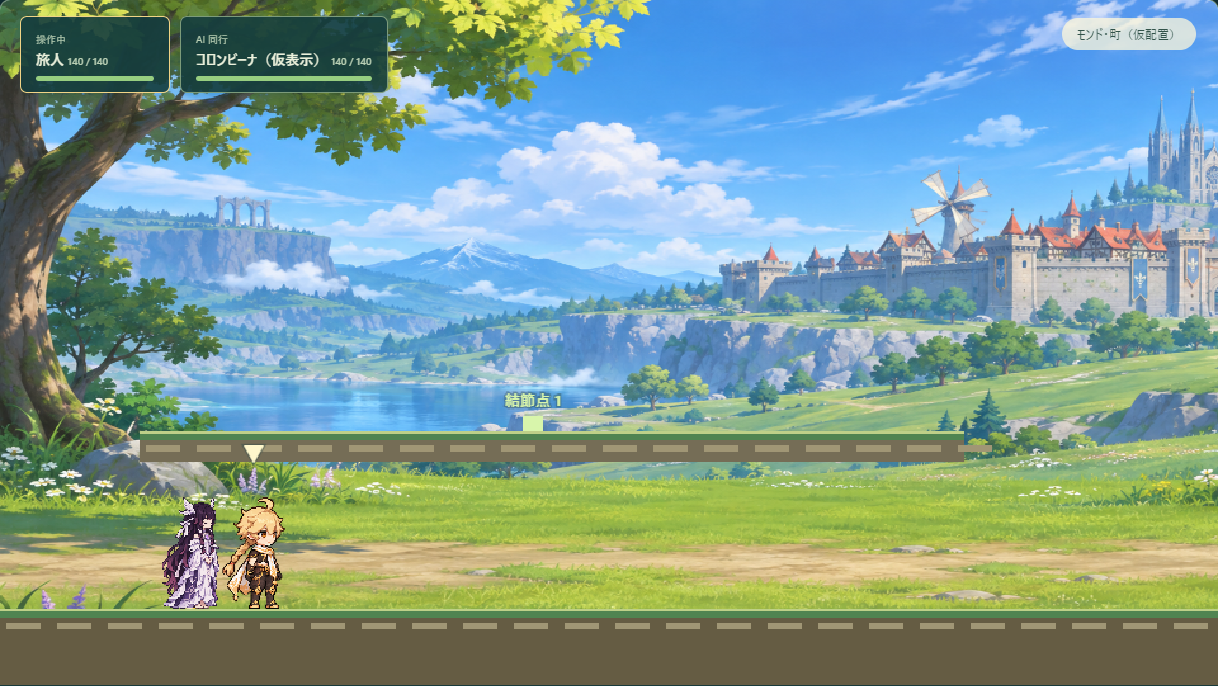
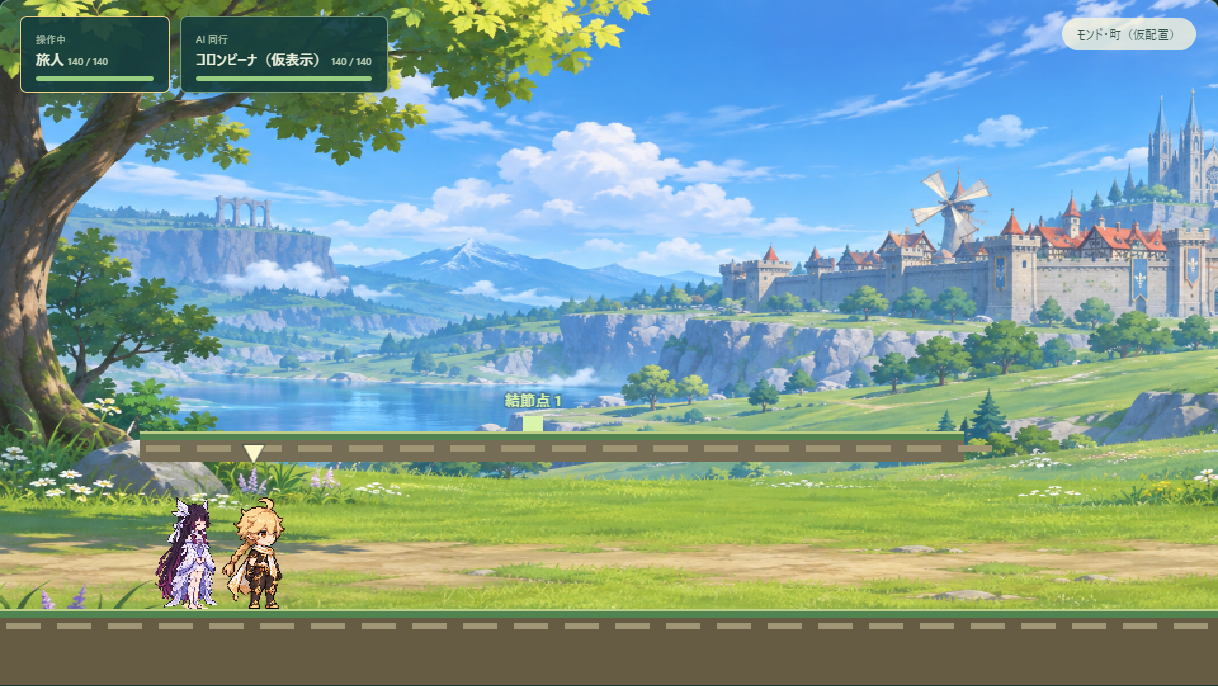
Revise Columbina layered costume from viewed illustration and models

Changed region(s): [[0.1248, 0.7347, 0.1872, 0.8878]]

diff --git a/app.js b/app.js
@@ -12,7 +12,7 @@ const inventoryUI=initInventoryUI(a=>actions.push(a));
 const SAVE_KEY='maple-lua-lab.checkpoint.v1';
 $('saveProgress').onclick=()=>{checkpointRequested=true;$('saveStatus').textContent='保存中…'};
 $('loadProgress').onclick=()=>{try{const raw=localStorage.getItem(SAVE_KEY);if(!raw)throw Error('保存データがありません');restoreRequested=JSON.parse(raw);if(!restoreRequested||typeof restoreRequested!=='object')throw Error('保存データを読み取れません');$('saveStatus').textContent='読み込み中…'}catch(e){restoreRequested=null;$('saveStatus').textContent=e.message}};
-const bossImages={};for(const name of [...Array.from({length:4},(_,i)=>'array-part-'+(i+1)+'-source-v1.png'),'wanderer-idle-source-v2.png','emilie-idle-source-v2.png','kachina-idle-source-v2.png','columbina-idle-source-v1.png','mitya-idle-source-v1.png','ayaka-idle-source-v3.png','beidou-idle-source-v3.png','thunder-source-v1.png','array-source-v1.png','maguu-slash-source-v1.png','maguu-stance-source-v1.png','maguu-mask-source-v1.png','maguu-source-v1.png','primo-source-v1.png','oceanid-crane-source-v1.png','oceanid-mallard-source-v1.png','oceanid-ferret-source-v1.png','oceanid-crab-source-v1.png','oceanid-raptor-source-v1.png','oceanid-frog-source-v1.png','oceanid-finch-source-v1.png','oceanid-source-v1.png','oceanid-boar-source-v1.png','geo-shell-source-v1.png','geo-core-source-v1.png','geo-pillar-source-v1.png','electro-shell-source-v1.png','electro-core-source-v1.png','anemo-shell-source-v1.png','anemo-core-source-v1.png','farka-source-v1.png','pyro-regisvine-source-v1.png',...Array.from({length:4},(_,i)=>'farka-actions/0'+(i+1)+'.png')]){const image=new Image();image.src='assets/'+name;await image.decode();bossImages[name]=image;}
+const bossImages={};for(const name of [...Array.from({length:4},(_,i)=>'array-part-'+(i+1)+'-source-v1.png'),'wanderer-idle-source-v2.png','emilie-idle-source-v2.png','kachina-idle-source-v2.png','columbina-idle-source-v2.png','mitya-idle-source-v1.png','ayaka-idle-source-v3.png','beidou-idle-source-v3.png','thunder-source-v1.png','array-source-v1.png','maguu-slash-source-v1.png','maguu-stance-source-v1.png','maguu-mask-source-v1.png','maguu-source-v1.png','primo-source-v1.png','oceanid-crane-source-v1.png','oceanid-mallard-source-v1.png','oceanid-ferret-source-v1.png','oceanid-crab-source-v1.png','oceanid-raptor-source-v1.png','oceanid-frog-source-v1.png','oceanid-finch-source-v1.png','oceanid-source-v1.png','oceanid-boar-source-v1.png','geo-shell-source-v1.png','geo-core-source-v1.png','geo-pillar-source-v1.png','electro-shell-source-v1.png','electro-core-source-v1.png','anemo-shell-source-v1.png','anemo-core-source-v1.png','farka-source-v1.png','pyro-regisvine-source-v1.png',...Array.from({length:4},(_,i)=>'farka-actions/0'+(i+1)+'.png')]){const image=new Image();image.src='assets/'+name;await image.decode();bossImages[name]=image;}
 const bossAtlas=new Image();bossAtlas.src='assets/cryo-regisvine-source-v1.png';
 const atlas=new Image();atlas.src='assets/atlas-transparent.png';
 try{spriteData=await (await fetch('assets/sprites.json')).json()}catch{}

diff --git a/compare.js b/compare.js
@@ -1,7 +1,7 @@
 import {scenery} from './scenery.js';
 const $=id=>document.getElementById(id);
 const data=await(await fetch('assets/variants.json')).json(),variants=data.variants;
-const bossImages={};for(const name of [...Array.from({length:4},(_,i)=>'array-part-'+(i+1)+'-source-v1.png'),'wanderer-idle-source-v2.png','emilie-idle-source-v2.png','kachina-idle-source-v2.png','columbina-idle-source-v1.png','mitya-idle-source-v1.png','ayaka-idle-source-v3.png','beidou-idle-source-v3.png','thunder-source-v1.png','array-source-v1.png','maguu-slash-source-v1.png','maguu-stance-source-v1.png','maguu-mask-source-v1.png','maguu-source-v1.png','primo-source-v1.png','oceanid-crane-source-v1.png','oceanid-mallard-source-v1.png','oceanid-ferret-source-v1.png','oceanid-crab-source-v1.png','oceanid-raptor-source-v1.png','oceanid-frog-source-v1.png','oceanid-finch-source-v1.png','oceanid-source-v1.png','oceanid-boar-source-v1.png','geo-shell-source-v1.png','geo-core-source-v1.png','geo-pillar-source-v1.png','electro-shell-source-v1.png','electro-core-source-v1.png','anemo-shell-source-v1.png','anemo-core-source-v1.png','farka-source-v1.png','pyro-regisvine-source-v1.png',...Array.from({length:4},(_,i)=>'farka-actions/0'+(i+1)+'.png')]){const image=new Image();image.src='assets/'+name;await image.decode();bossImages[name]=image;}
+const bossImages={};for(const name of [...Array.from({length:4},(_,i)=>'array-part-'+(i+1)+'-source-v1.png'),'wanderer-idle-source-v2.png','emilie-idle-source-v2.png','kachina-idle-source-v2.png','columbina-idle-source-v2.png','mitya-idle-source-v1.png','ayaka-idle-source-v3.png','beidou-idle-source-v3.png','thunder-source-v1.png','array-source-v1.png','maguu-slash-source-v1.png','maguu-stance-source-v1.png','maguu-mask-source-v1.png','maguu-source-v1.png','primo-source-v1.png','oceanid-crane-source-v1.png','oceanid-mallard-source-v1.png','oceanid-ferret-source-v1.png','oceanid-crab-source-v1.png','oceanid-raptor-source-v1.png','oceanid-frog-source-v1.png','oceanid-finch-source-v1.png','oceanid-source-v1.png','oceanid-boar-source-v1.png','geo-shell-source-v1.png','geo-core-source-v1.png','geo-pillar-source-v1.png','electro-shell-source-v1.png','electro-core-source-v1.png','anemo-shell-source-v1.png','anemo-core-source-v1.png','farka-source-v1.png','pyro-regisvine-source-v1.png',...Array.from({length:4},(_,i)=>'farka-actions/0'+(i+1)+'.png')]){const image=new Image();image.src='assets/'+name;await image.decode();bossImages[name]=image;}
 const bossAtlas=new Image();bossAtlas.src='assets/cryo-regisvine-source-v1.png';await bossAtlas.decode();
 const atlas=new Image();atlas.src='assets/atlas-transparent.png';await atlas.decode();
 const names={png:'原画像 PNG',...Object.fromEntries(Object.entries(variants).map(([k,v])=>[k,v.label]))};

diff --git a/render_model_reference.py b/render_model_reference.py
@@ -28,7 +28,7 @@ for obj in meshes:
     overlay_slots = set()
     for i, mat in enumerate(obj.data.materials):
         tex = mat.node_tree.nodes.get('mmd_base_tex') if mat and mat.node_tree else None
-        if tex and tex.image and tex.image.name in {'sph.png', 'spa_h.png'}:
+        if tex and tex.image and tex.image.name in {'sph.png', 'spa_h.png', 'sp.png'}:
             overlay_slots.add(i)
     # Coplanar additive shine faces obscure the underlying hair in Cycles.
     # Omit them only in this transient inspection scene; source PMX is untouched.
@@ -48,7 +48,7 @@ for mat in bpy.data.materials:
     tex.image.alpha_mode = 'CHANNEL_PACKED'
     textures.append({'material': mat.name, 'image': tex.image.name, 'size': list(tex.image.size)})
     output = next(n for n in nodes if n.type == 'OUTPUT_MATERIAL')
-    if tex.image.name in {'sph.png', 'spa_h.png'}:
+    if tex.image.name in {'sph.png', 'spa_h.png', 'sp.png'}:
         # Separate additive shine overlay must not become an opaque black shell.
         transparent = nodes.new('ShaderNodeBsdfTransparent')
         links.new(transparent.outputs[0], output.inputs['Surface'])
